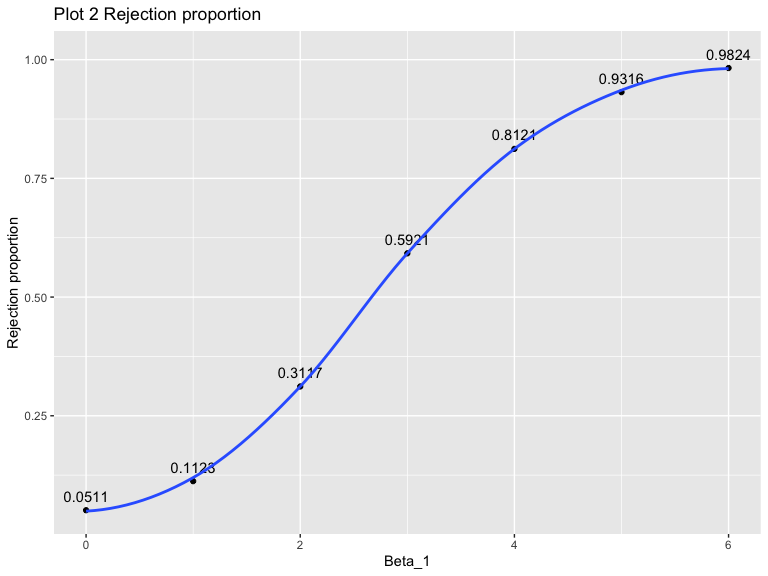
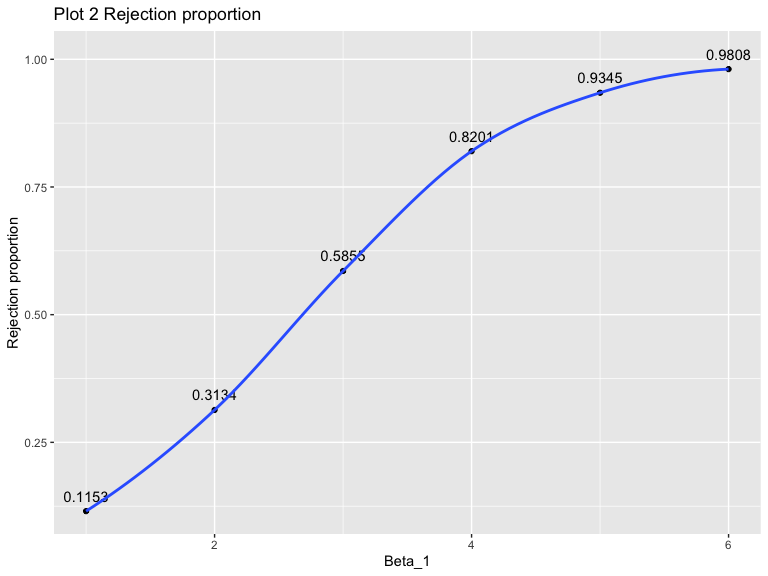
final version!

diff --git a/hw5_xw2676.md b/hw5_xw2676.md
@@ -4,6 +4,7 @@ p8105\_hw5\_xw2676
 ## Problem 1
 
 ``` r
+set.seed(10)
 iris_with_missing = iris %>% 
   map_df(~replace(.x, sample(1:150, 20), NA)) %>%
   mutate(Species = as.character(Species)) 
@@ -12,7 +13,8 @@ iris_with_missing = iris %>%
 
 replace_missing_value = function(x) {
    if (is.numeric(x)) {
-    a = mean(x, na.rm = TRUE)
+    a = mean(x, na.rm = TRUE) %>% 
+      round(digit = 2)
     x = replace_na(x, a)
   }else if (is.character(x)) {
     x = replace_na(x, "virginica")
@@ -23,7 +25,17 @@ replace_missing_value = function(x) {
 ## apply the function to columns of dataset
 
 iris_modified = as.tibble(map(iris_with_missing, replace_missing_value))
+
+## example of the dataset
+head(iris_modified,3)
 ```
+
+    ## # A tibble: 3 x 5
+    ##   Sepal.Length Sepal.Width Petal.Length Petal.Width Species
+    ##          <dbl>       <dbl>        <dbl>       <dbl> <chr>  
+    ## 1          5.1         3.5          1.4         0.2 setosa 
+    ## 2          4.9         3            1.4         0.2 setosa 
+    ## 3          4.7         3.2          1.3         0.2 setosa
 
 ## Problem 2
 
@@ -97,7 +109,7 @@ group.
 
 ``` r
 ## create a function 
-
+set.seed(10)
 sim_regression = function(n = 30, beta0 = 2, beta1) {
   
   sim_data = tibble(
@@ -124,19 +136,20 @@ head(results, 3)
     ## # A tibble: 3 x 2
     ##   estimate p.value
     ##      <dbl>   <dbl>
-    ## 1    2.02    0.207
-    ## 2    1.23    0.182
-    ## 3    0.603   0.606
+    ## 1   -2.44   0.0895
+    ## 2   -0.366  0.769 
+    ## 3    2.10   0.0917
 
 ``` r
+set.seed(10)
 output = vector("list", length = 6)
-for (i in c(1,2,3,4,5,6,7)) {
-  output[[i]] = rerun(10000, sim_regression(beta1 = i - 1))
+for (i in c(1,2,3,4,5,6)) {
+  output[[i]] = rerun(10000, sim_regression(beta1 = i))
   output[[i]] = bind_rows(output[[i]])
 }
 
 sim_results = 
-  tibble(beta_1 = c(0, 1, 2, 3, 4, 5, 6)) %>% 
+  tibble(beta_1 = c(1, 2, 3, 4, 5, 6)) %>% 
   mutate(
     output = output) %>% 
     unnest(output) %>% 
@@ -191,7 +204,7 @@ ggplot(average_data, aes(x = beta_1, y = mean)) +
     x = "Beta_1",
     y = "Average estimate"
   ) +
-　geom_text(aes(y = mean + 0.1, label = mean)) +
+　geom_text(aes(y = mean + 0.3, label = mean)) +
   geom_smooth(se = FALSE)
 ```
 
@@ -214,7 +227,7 @@ ggplot(reject_average_data, aes(x = beta_1, y = mean)) +
     x = "Beta_1",
     y = "Average estimate"
   ) +
-　geom_text(aes(y = mean + 0.1, label = mean)) +
+　geom_text(aes(y = mean + 0.2, label = mean)) +
   geom_smooth(se = FALSE)
 ```
 
@@ -222,10 +235,10 @@ ggplot(reject_average_data, aes(x = beta_1, y = mean)) +
 
 <img src="hw5_xw2676_files/figure-gfm/unnamed-chunk-5-2.png" width="90%" />
 
-The sample average of \(\hat{\beta}_1\) across tests for which the null
-is rejected is not equal to the true value of \(\hat{\beta}_1\). Because
-only when its value is far away from the true value, then it can be
-rejected. So when the effect size is small, the proportion of rejection
-is small, so the average will be a little larger than the true value.
-When the effect size is large, then the proportion of rejection is
-large, so the average will be approximately equal to the true value.
+The sample average of beta\_1 across tests for which the null is
+rejected is not equal to the true value of beta\_1. Because only when
+its value is far away from the true value, then it can be rejected. So
+when the effect size is small, the proportion of rejection is small, so
+the average will be a little larger than the true value. When the effect
+size is large, then the proportion of rejection is large, so the average
+will be approximately equal to the true value.
